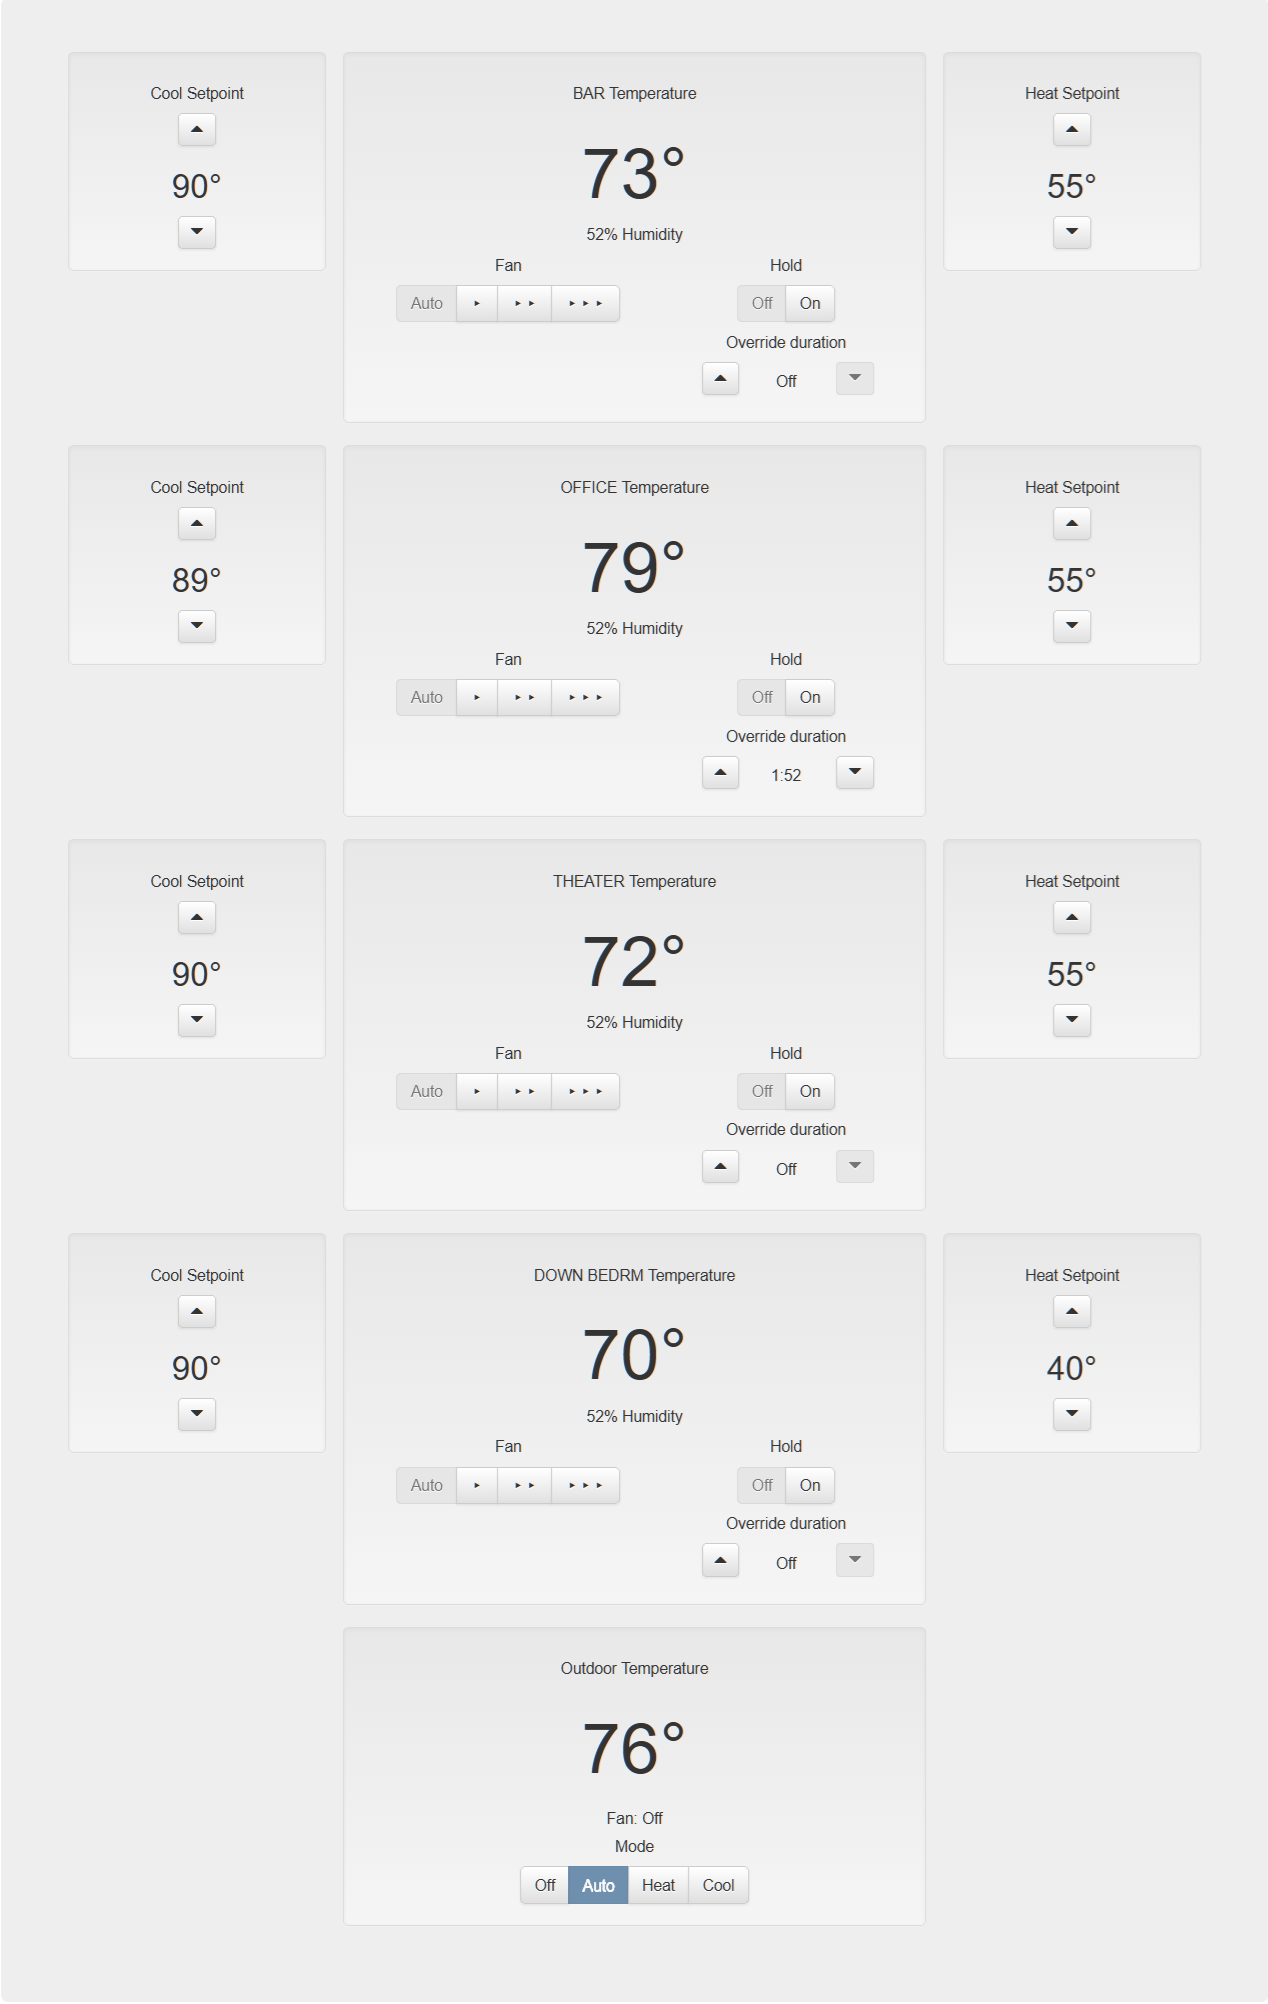
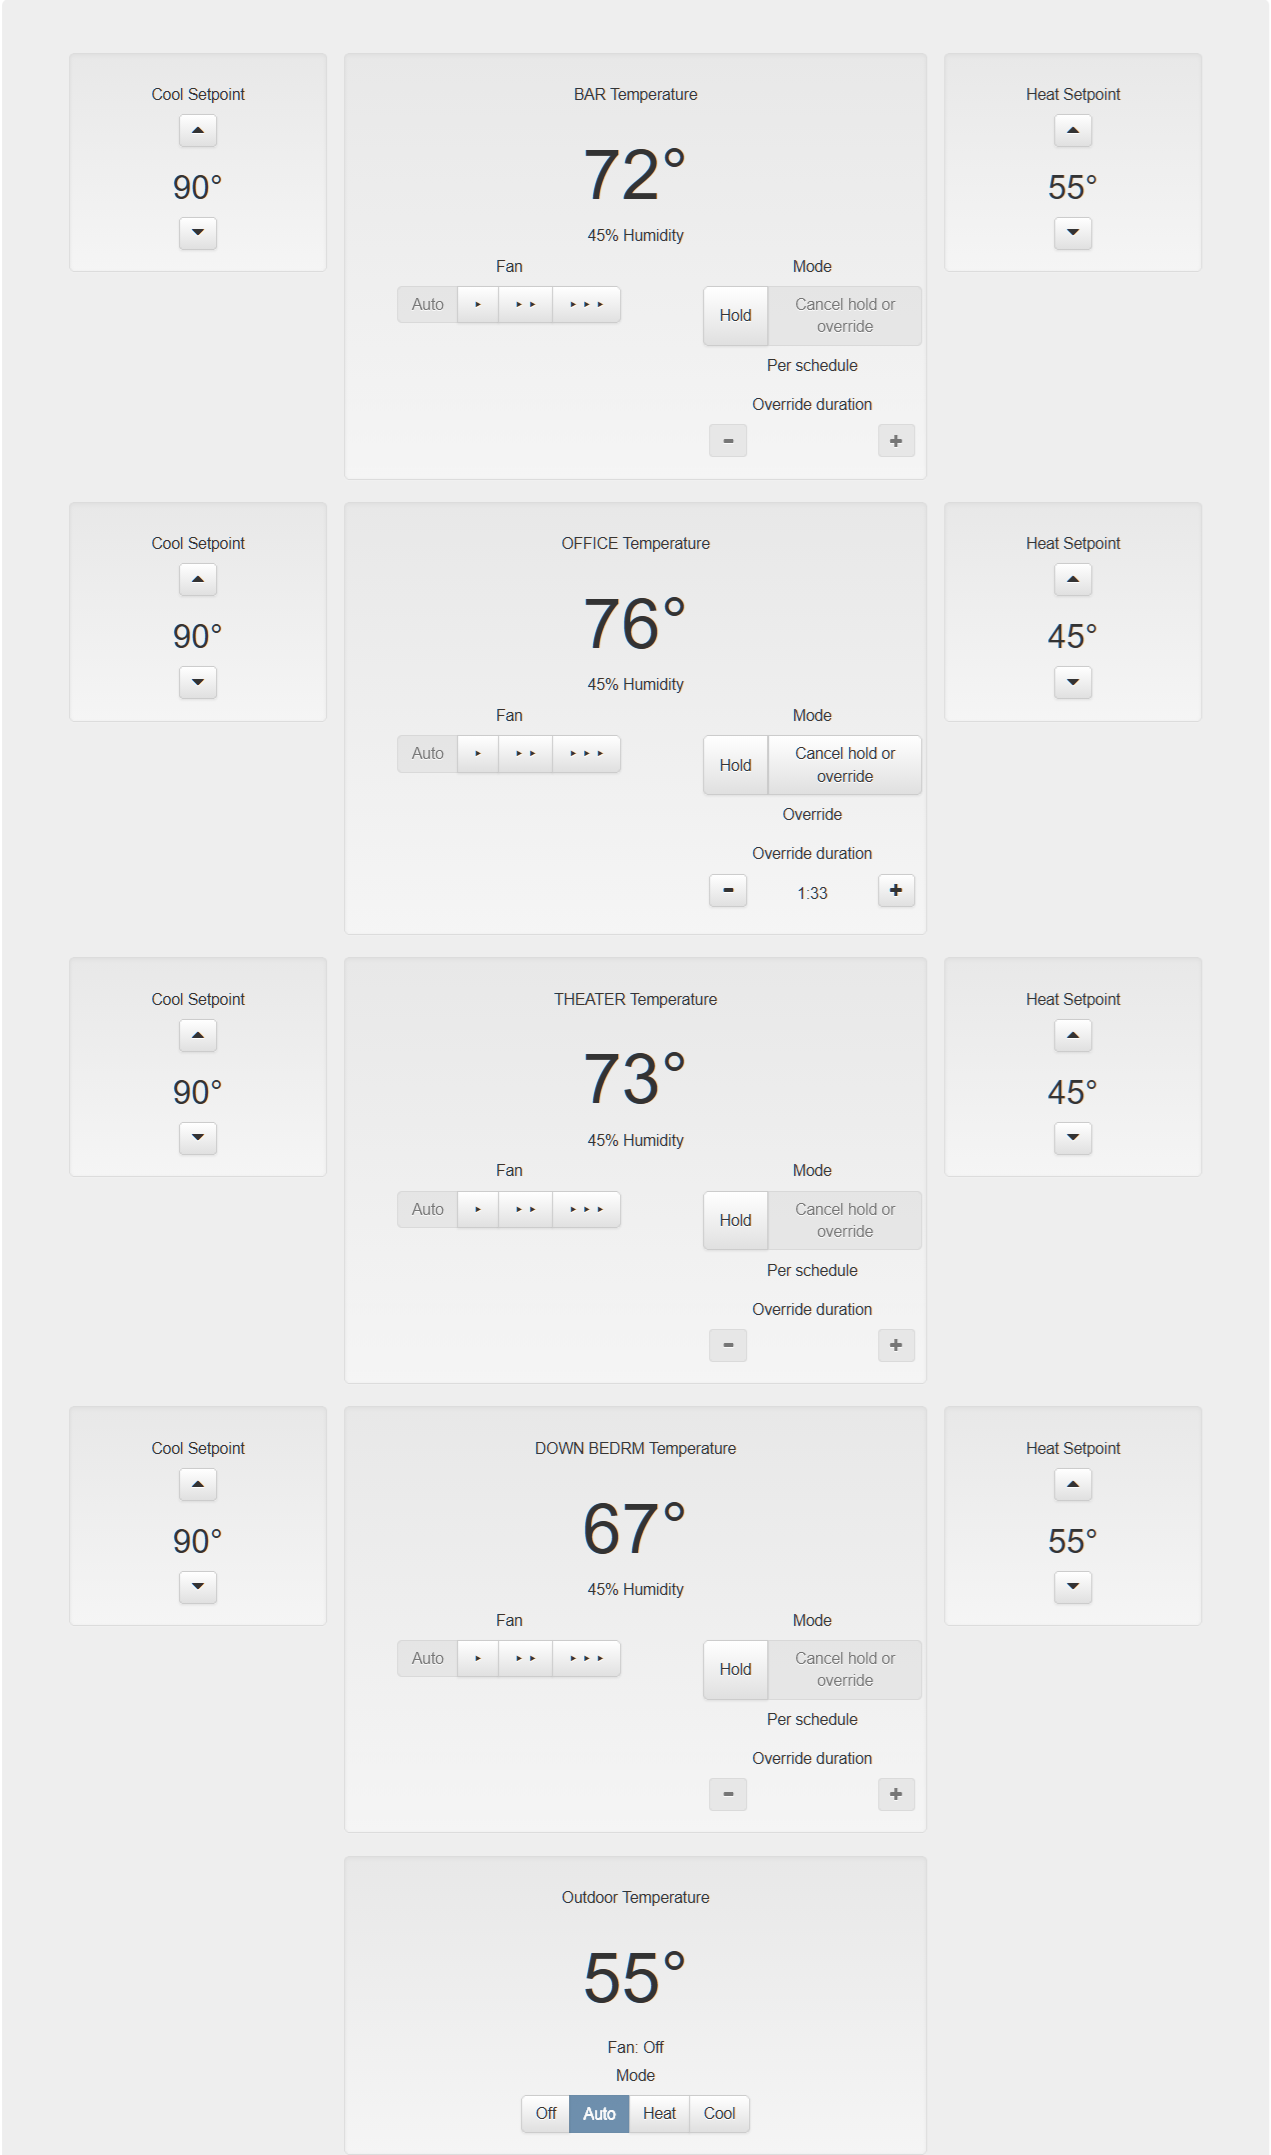
Change timedOverrideActive to overrideActive . Change UI "Resume schedule" button to "Cancel hold or override". Update screenshot.

diff --git a/assets/ui.html b/assets/ui.html
@@ -42,24 +42,24 @@
 		                 <button type="button" class="btn btn-default" style="width: 100%; height: 100%; white-space: normal; border-top-right-radius: 0; border-bottom-right-radius: 0;" ng-disabled="zone.hold === true" ng-click="setHold(zone.zoneNumber,true)">Hold</button>
 		               </div>
 		               <div style="flex: 7; display: flex;">
-		                 <button type="button" class="btn btn-default" style="width: 100%; height: 100%; white-space: normal; border-top-left-radius: 0; border-bottom-left-radius: 0;" ng-disabled="zone.hold !== true && zone.timedOverrideActive !== true" ng-click="setHold(zone.zoneNumber,false)">Resume schedule</button>
+		                 <button type="button" class="btn btn-default" style="width: 100%; height: 100%; white-space: normal; border-top-left-radius: 0; border-bottom-left-radius: 0;" ng-disabled="zone.hold !== true && zone.overrideActive !== true" ng-click="setHold(zone.zoneNumber,false)">Cancel hold or override</button>
 		               </div>
 		           </div>
 		           <div class="row row-centered">
-		             <h5>{{ zone.hold ? "Hold" : (zone.timedOverrideActive ? "Timed override" : "Per schedule") }}</h5>
+		             <h5>{{ zone.hold ? "Hold" : (zone.overrideActive ? "Override" : "Per schedule") }}</h5>
 		           </div>
 	           <h5>Override duration</h5>
 	           <div class="row row-centered">
              <div class="col-xs-4">
-               <a role="button" class="btn btn-default btn-sm" ng-disabled="!zone.timedOverrideActive" ng-click="incOverrideDuration(zone.zoneNumber,-1)">
+               <a role="button" class="btn btn-default btn-sm" ng-disabled="!zone.overrideActive" ng-click="incOverrideDuration(zone.zoneNumber,-1)">
                  <span class="glyphicon glyphicon-minus"></span>
                </a>
 	             </div>
 	             <div class="col-xs-4">
-	               <h5>{{ zone.timedOverrideActive ? zone.overrideDuration : "" }}</h5>
+	               <h5>{{ zone.overrideActive ? zone.overrideDuration : "" }}</h5>
 	             </div>
 	             <div class="col-xs-4">
-	               <a role="button" class="btn btn-default btn-sm" ng-disabled="!zone.timedOverrideActive" ng-click="incOverrideDuration(zone.zoneNumber,1)">
+	               <a role="button" class="btn btn-default btn-sm" ng-disabled="!zone.overrideActive" ng-click="incOverrideDuration(zone.zoneNumber,1)">
 	                 <span class="glyphicon glyphicon-plus"></span>
 	               </a>
 	             </div>

diff --git a/infinitive.go b/infinitive.go
@@ -22,7 +22,7 @@ type TStatZoneConfig struct {
 	ZoneName	string `json:"zoneName"`
 	FanMode         string `json:"fanMode"`
 	Hold            *bool  `json:"hold"`
-	TimedOverrideActive bool `json:"timedOverrideActive"`
+	OverrideActive bool `json:"overrideActive"`
 	Preset          string `json:"preset"`
 	HeatSetpoint    uint8  `json:"heatSetpoint"`
 	CoolSetpoint    uint8  `json:"coolSetpoint"`
@@ -195,7 +195,7 @@ func getZonesConfig() (*TStatZonesConfig, bool) {
 	for zi := range params.ZCurrentTemp {
 		if params.ZCurrentTemp[zi] > 0 && params.ZCurrentTemp[zi] < 255 {
 			holdz := ((cfg.ZoneHold & (0x01 << zi)) != 0)
-			timedOverrideActive := ((cfg.ZTimedOvrdState & (0x01 << zi)) != 0)
+			overrideActive := ((cfg.ZTimedOvrdState & (0x01 << zi)) != 0)
 			overrideDurationMins := cfg.ZOvrdDuration[zi]
 			overrideDuration := holdTime(overrideDurationMins)
 			presetz := "none"
@@ -203,7 +203,7 @@ func getZonesConfig() (*TStatZonesConfig, bool) {
 			if holdz {
 				presetz = "hold"
 			}
-			if !timedOverrideActive {
+			if !overrideActive {
 				overrideDurationMins = 0
 				overrideDuration = ""
 			}
@@ -216,7 +216,7 @@ func getZonesConfig() (*TStatZonesConfig, bool) {
 				CurrentHumidity:  params.ZCurrentHumidity[zi],
 				FanMode:          rawFanModeToString(cfg.ZFanMode[zi]),
 				Hold:             &holdz,
-				TimedOverrideActive: timedOverrideActive,
+				OverrideActive: overrideActive,
 				Preset:           presetz,
 				HeatSetpoint:     cfg.ZHeatSetpoint[zi],
 				CoolSetpoint:     cfg.ZCoolSetpoint[zi],
@@ -415,7 +415,7 @@ func getZNConfig(zi int) (*TStatZoneConfig, bool) {
 	}
 
 	hold := cfg.ZoneHold & (0x01 << zi) != 0
-	timedOverrideActive := cfg.ZTimedOvrdState & (0x01 << zi) != 0
+	overrideActive := cfg.ZTimedOvrdState & (0x01 << zi) != 0
 	overrideDurationMins := cfg.ZOvrdDuration[zi]
 	overrideDuration := holdTime(overrideDurationMins)
 	presetz := "none"
@@ -423,7 +423,7 @@ func getZNConfig(zi int) (*TStatZoneConfig, bool) {
 	if hold {
 		presetz = "hold"
 	}
-	if !timedOverrideActive {
+	if !overrideActive {
 		overrideDurationMins = 0
 		overrideDuration = ""
 	}
@@ -437,7 +437,7 @@ func getZNConfig(zi int) (*TStatZoneConfig, bool) {
 		Action:          rawActionToString(params.Mode >> 5),
 		FanMode:         rawFanModeToString(cfg.ZFanMode[zi]),
 		Hold:            &hold,
-		TimedOverrideActive: timedOverrideActive,
+		OverrideActive: overrideActive,
 		Preset:          presetz,
 		HeatSetpoint:    cfg.ZHeatSetpoint[zi],
 		CoolSetpoint:    cfg.ZCoolSetpoint[zi],
@@ -605,7 +605,7 @@ func statePoller(monArray []uint16) {
 				mqttCache.update(zp+"/targetHumidity", c1.Zones[zi].TargetHumidity)
 				mqttCache.update(zp+"/fanMode", c1.Zones[zi].FanMode)
 				mqttCache.update(zp+"/hold", *c1.Zones[zi].Hold)
-				mqttCache.update(zp+"/timedOverrideActive", c1.Zones[zi].TimedOverrideActive)
+				mqttCache.update(zp+"/overrideActive", c1.Zones[zi].OverrideActive)
 				mqttCache.update(zp+"/overrideDurationMins", c1.Zones[zi].OvrdDurationMins)
 				if c2ok && *c2.Active {
 					mqttCache.update(zp+"/preset", "vacation")

diff --git a/dispatcher.go b/dispatcher.go
@@ -349,7 +349,7 @@ func mqttDiscoverZone(zi int, zn string, tu uint8) {
 	sensors := []discoveryTopicSensor {
 		{ "%[4]s/zone/%[2]d/damperPos", "%[1]s Damper Postion", "", "measurement", "%", "hvac-sensors-z%[2]d-dpos", a},
 		{ "%[4]s/zone/%[2]d/flowWeight", "%[1]s Airflow Weight", "", "measurement", "", "hvac-sensors-z%[2]d-fwgt", a},
-		{ "%[4]s/zone/%[2]d/timedOverrideActive", "%[1]s Timed Override Active", "", "", "", "hvac-sensors-z%[2]d-tovr", a},
+		{ "%[4]s/zone/%[2]d/overrideActive", "%[1]s Timed Override Active", "", "", "", "hvac-sensors-z%[2]d-tovr", a},
 		{ "%[4]s/zone/%[2]d/overrideDurationMins", "%[1]s Override duration", "duration", "measurement", "min", "hvac-sensors-z%[2]d-odur", a},
 		{ "%[4]s/zone/%[2]d/temp16", "%[1]s Raw Temperature", "temperature", "measurement", "°F", "hvac-sensors-z%[2]d-t16", a},
 	}

diff --git a/webserver.go b/webserver.go
@@ -115,8 +115,8 @@ func webserver(port int) {
 			log.Printf("bind failed")
 		} else if err != nil || zn < 1 || zn > 8 {
 			log.Printf("invalid zone numner")
-		} else if _, bad := reqArgs["timedOverrideActive"]; bad {
-			c.AbortWithError(400, errors.New("timedOverrideActive is read-only"))
+		} else if _, bad := reqArgs["overrideActive"]; bad {
+			c.AbortWithError(400, errors.New("overrideActive is read-only"))
 			return
 		} else {
 			params := TStatZoneParams{}

diff --git a/README.md b/README.md
@@ -240,7 +240,7 @@ Replace [Z] with any zone number 1-8.  If you want data for multiple zones, it's
    "stage":2,
    "fanMode": "auto",
    "hold": true,
-   "timedOverrideActive": false,
+   "overrideActive": false,
    "targetHumidity": 52,
    "zoneName": "Downstairs",
    "overrideDuration": "1:50",
@@ -257,13 +257,13 @@ in the per-zone query.
 
 For zone scheduling state:
 - `hold` is the permanent hold flag
-- `timedOverrideActive` is the separate ON/OFF flag for the `hold until` timed override
+- `overrideActive` is the separate ON/OFF flag for the `hold until` timed override
 - `overrideDurationMins` is the remaining timed override value when that flag is set
 
 #### PUT /api/zone/[Z]/config
 
 Replace [Z] with any zone number 1-8.  One or more parameters to write should be included in the JSON body.  Parameters that are not
-mentioned are not changed. `timedOverrideActive` is read-only and may not be written. The only zone parameters that are settable are
+mentioned are not changed. `overrideActive` is read-only and may not be written. The only zone parameters that are settable are
 `fanMode`, `heatSetpoint`, `coolSetpoint`, `hold`, and `overrideDurationMins`, as well as the global parameter `mode`.
 
 ```json
@@ -302,7 +302,7 @@ dictionary.  These parameters may for now also be inside the per-zone structures
 	 "zoneName":"Downstairs",
 	 "fanMode":"low",
 	 "hold":true,
-	 "timedOverrideActive":false,
+	 "overrideActive":false,
 	 "heatSetpoint":72,
 	 "coolSetpoint":82,
 	 "overrideDuration":"",
@@ -320,7 +320,7 @@ dictionary.  These parameters may for now also be inside the per-zone structures
 	 "zoneName":"Upstairs",
 	 "fanMode":"med",
 	 "hold":false,
-	 "timedOverrideActive":true,
+	 "overrideActive":true,
 	 "heatSetpoint":73,
 	 "coolSetpoint":83,
 	 "overrideDuration":"1:25",
@@ -462,7 +462,7 @@ Reported per zone, where X is a zone number 1-8:
 * `infinitive/zone/X/heatSetpoint`: current heat set point, in whole degrees
 * `infinitive/zone/X/fanMode`: current fan mode setting, Home Assistant compatible: `low`, `med`, `high`, `auto`
 * `infinitive/zone/X/hold`: bool flag for permanent Hold, `false` or `true` (not really useful with HA -- use `preset` instead)
-* `infinitive/zone/X/timedOverrideActive`: bool flag for the `hold until` timed override state
+* `infinitive/zone/X/overrideActive`: bool flag for the `hold until` timed override state
 * `infinitive/zone/X/preset`: HA-style "preset" flag; currently `hold`, `vacation`, or `none`
 * `infinitive/zone/X/damperPos`: zone damper position reported by zoning unit, 0-100 as whole number percent where 100 is fully open
 * `infinitive/zone/X/flowWeight`: airflow allocation factor for this zone as a decimal fraction (0-1) - multiply the total airflowCFM
